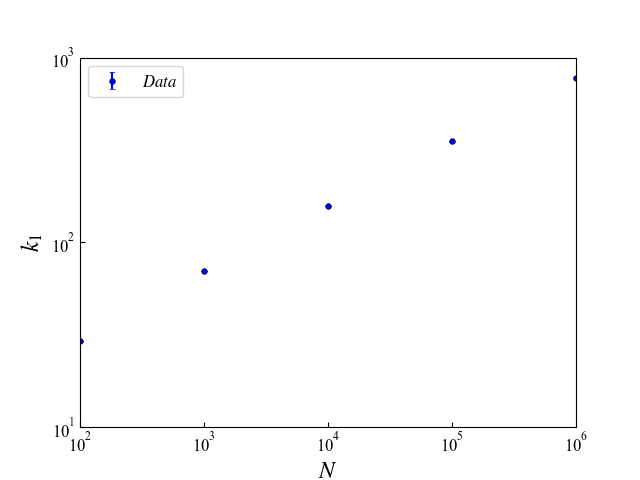
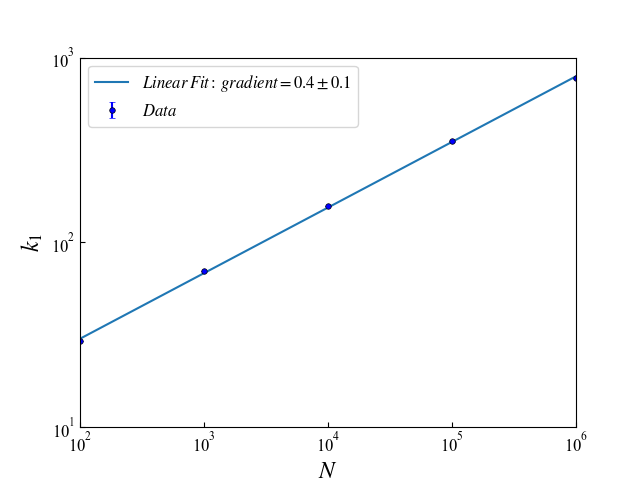
Final changes to all plots

diff --git a/main.py b/main.py
@@ -333,7 +333,7 @@ def phase_1_task_4(compute=True, plot=False):
             degrees[n] = pickle.load(file)
             dists[n] = pickle.load(file)
             standard_errors[n] = pickle.load(file)
-            std[n] = pickle.load(file)
+            # std[n] = pickle.load(file)
             file.close()
         file = open('Files/Phase1/phase_1_task_4_k_logbin_1_1.txt', 'rb')
         k_max = pickle.load(file)
@@ -347,18 +347,18 @@ def phase_1_task_4(compute=True, plot=False):
         matplotlib.rcParams['mathtext.it'] = 'Bitstream Vera Sans:italic'
         matplotlib.rcParams['mathtext.bf'] = 'Bitstream Vera Sans:bold'
         matplotlib.rcParams['mathtext.fontset'] = 'stix'
-        errors[10000][-2] = 0.6*standard_errors[10000][-2]
-        errors[1000000][-3] = 0.4*standard_errors[1000000][-3]
+        standard_errors[10000][-2] = 0.6*standard_errors[10000][-2]
+        standard_errors[1000000][-3] = 0.4*standard_errors[1000000][-3]
         plt.errorbar(degrees[100], dists[100],  yerr=standard_errors[100], marker = 'o', ls = ' ', capsize=2, color='chartreuse', \
-            markeredgecolor='k', markersize=4, markeredgewidth=0.5, label=r'$Data: \: N=100$')
+            markeredgecolor='k', markersize=4, markeredgewidth=0.5, label=r'$Data: \: N=10^2$')
         plt.errorbar(degrees[1000], dists[1000],  yerr=standard_errors[1000], marker = 'o', ls = ' ', capsize=2, color='red', \
-            markeredgecolor='k', markersize=4, markeredgewidth=0.5, label=r'$Data: \: N=1000$')
+            markeredgecolor='k', markersize=4, markeredgewidth=0.5, label=r'$Data: \: N=10^3$')
         plt.errorbar(degrees[10000], dists[10000],  yerr=standard_errors[10000], marker = 'o', ls = ' ', capsize=2, \
-            color='royalblue', markeredgecolor='k', markersize=4, markeredgewidth=0.5, label=r'$Data: \: N=10000$')
+            color='royalblue', markeredgecolor='k', markersize=4, markeredgewidth=0.5, label=r'$Data: \: N=10^4$')
         plt.errorbar(degrees[100000], dists[100000], yerr=standard_errors[100000], marker = 'o', ls = ' ', capsize=2, \
-            color='forestgreen', markeredgecolor='k', markersize=4, markeredgewidth=0.5, label=r'$Data: \: N=100000$')
+            color='forestgreen', markeredgecolor='k', markersize=4, markeredgewidth=0.5, label=r'$Data: \: N=10^5$')
         plt.errorbar(degrees[1000000], dists[1000000], yerr=standard_errors[1000000], marker = 'o', ls = ' ', capsize=2, \
-            color='darkviolet', markeredgecolor='k', markersize=4, markeredgewidth=0.5, label=r'$Data: \: N=1000000$')
+            color='darkviolet', markeredgecolor='k', markersize=4, markeredgewidth=0.5, label=r'$Data: \: N=10^6$')
 
         x_space = np.linspace(min(degrees[100]), max(degrees[1000000]), 1000)
         plt.plot(x_space, deg_dist_theoretical_pa(x_space, m=4), '--', color='black', label=r'$Theoretical \: Curve$')
@@ -424,19 +424,19 @@ def phase_1_task_4(compute=True, plot=False):
 
         plt.errorbar(degrees[100]/k_max[0], dists[100]/deg_dist_theoretical_pa(degrees[100], m=4), \
             yerr=standard_errors[100]/deg_dist_theoretical_pa(degrees[100], m=4), marker = 'o', ls = ' ', capsize=2, \
-                color='chartreuse', markeredgecolor='k', markersize=4, markeredgewidth=0.5, label=r'$Data: \: N=100$')
+                color='chartreuse', markeredgecolor='k', markersize=4, markeredgewidth=0.5, label=r'$Data: \: N=10^2$')
         plt.errorbar(degrees[1000]/k_max[1], dists[1000]/deg_dist_theoretical_pa(degrees[1000], m=4), \
             yerr=standard_errors[1000]/deg_dist_theoretical_pa(degrees[1000], m=4), marker = 'o', ls = ' ', capsize=2, \
-                color='red', markeredgecolor='k', markersize=4, markeredgewidth=0.5, label=r'$Data: \: N=1000$')
+                color='red', markeredgecolor='k', markersize=4, markeredgewidth=0.5, label=r'$Data: \: N=10^3$')
         plt.errorbar(degrees[10000]/k_max[2], dists[10000]/deg_dist_theoretical_pa(degrees[10000], m=4), \
             yerr=standard_errors[10000]/deg_dist_theoretical_pa(degrees[10000], m=4), marker = 'o', ls = ' ', capsize=2, \
-                color='royalblue', markeredgecolor='k', markersize=4, markeredgewidth=0.5, label=r'$Data: \: N=10000$')
+                color='royalblue', markeredgecolor='k', markersize=4, markeredgewidth=0.5, label=r'$Data: \: N=10^4$')
         plt.errorbar(degrees[100000]/k_max[3], dists[100000]/deg_dist_theoretical_pa(degrees[100000], m=4), \
             yerr=standard_errors[100000]/deg_dist_theoretical_pa(degrees[100000], m=4), marker = 'o', ls = ' ', capsize=2, \
-                color='forestgreen', markeredgecolor='k', markersize=4, markeredgewidth=0.5, label=r'$Data: \: N=100000$')        
+                color='forestgreen', markeredgecolor='k', markersize=4, markeredgewidth=0.5, label=r'$Data: \: N=10^5$')        
         plt.errorbar(degrees[1000000]/k_max[4], dists[1000000]/deg_dist_theoretical_pa(degrees[1000000], m=4), \
             yerr=standard_errors[1000000]/deg_dist_theoretical_pa(degrees[1000000], m=4), marker = 'o', ls = ' ', capsize=2, \
-                color='darkviolet', markeredgecolor='k', markersize=4, markeredgewidth=0.5, label=r'$Data: \: N=1000000$')
+                color='darkviolet', markeredgecolor='k', markersize=4, markeredgewidth=0.5, label=r'$Data: \: N=10^6$')
         plt.legend()
         plt.xlabel(r'$\it{k/k_1}$', fontname='Times New Roman', fontsize=17)
         plt.ylabel(r'$\it{p(k) \: / \: p_{\infty}(k)}$', fontname='Times New Roman', fontsize=17)
@@ -743,7 +743,7 @@ def phase_2_task_4(compute=True, plot=False):
             degrees[n] = pickle.load(file)
             dists[n] = pickle.load(file)
             standard_errors[n] = pickle.load(file)
-            std = pickle.load(file)
+            # std = pickle.load(file)
             file.close()
         file = open('Files/Phase2/phase_2_task_4_k_logbin_1_1.txt', 'rb')
         k_max = pickle.load(file)
@@ -759,15 +759,15 @@ def phase_2_task_4(compute=True, plot=False):
         matplotlib.rcParams['mathtext.bf'] = 'Bitstream Vera Sans:bold'
         matplotlib.rcParams['mathtext.fontset'] = 'stix'
         plt.errorbar(degrees[100], dists[100],  yerr=standard_errors[100], marker = 'o', ls = ' ', capsize=2, color='chartreuse', \
-            markeredgecolor='k', markersize=4, markeredgewidth=0.5, label=r'$Data: \: N=100$')
+            markeredgecolor='k', markersize=4, markeredgewidth=0.5, label=r'$Data: \: N=10^2$')
         plt.errorbar(degrees[1000], dists[1000],  yerr=standard_errors[1000], marker = 'o', ls = ' ', capsize=2, color='red', \
-            markeredgecolor='k', markersize=4, markeredgewidth=0.5, label=r'$Data: \: N=1000$')
+            markeredgecolor='k', markersize=4, markeredgewidth=0.5, label=r'$Data: \: N=10^3$')
         plt.errorbar(degrees[10000], dists[10000],  yerr=standard_errors[10000], marker = 'o', ls = ' ', capsize=2, \
-            color='royalblue', markeredgecolor='k', markersize=4, markeredgewidth=0.5, label=r'$Data: \: N=10000$')
+            color='royalblue', markeredgecolor='k', markersize=4, markeredgewidth=0.5, label=r'$Data: \: N=10^4$')
         plt.errorbar(degrees[100000], dists[100000], yerr=standard_errors[100000], marker = 'o', ls = ' ', capsize=2, \
-            color='forestgreen', markeredgecolor='k', markersize=4, markeredgewidth=0.5, label=r'$Data: \: N=100000$')
+            color='forestgreen', markeredgecolor='k', markersize=4, markeredgewidth=0.5, label=r'$Data: \: N=10^5$')
         plt.errorbar(degrees[1000000], dists[1000000], yerr=standard_errors[1000000], marker = 'o', ls = ' ', capsize=2, \
-            color='darkviolet', markeredgecolor='k', markersize=4, markeredgewidth=0.5, label=r'$Data: \: N=1000000$')
+            color='darkviolet', markeredgecolor='k', markersize=4, markeredgewidth=0.5, label=r'$Data: \: N=10^6$')
 
         x_space = np.linspace(min(degrees[100]), max(degrees[1000000]), 1000)
         plt.plot(x_space, deg_dist_theoretical_ra(x_space, m=4), '--', color='k', label=r'$Theoretical \: Curve$')
@@ -825,19 +825,19 @@ def phase_2_task_4(compute=True, plot=False):
 
         plt.errorbar(degrees[100]/k_max[0], dists[100]/deg_dist_theoretical_ra(degrees[100], m=4), \
             yerr=standard_errors[100]/deg_dist_theoretical_pa(degrees[100], m=4), marker = 'o', ls = ' ', capsize=2, \
-                color='chartreuse', markeredgecolor='k', markersize=4, markeredgewidth=0.5, label=r'$Data: \: N=100$')
+                color='chartreuse', markeredgecolor='k', markersize=4, markeredgewidth=0.5, label=r'$Data: \: N=10^2$')
         plt.errorbar(degrees[1000]/k_max[1], dists[1000]/deg_dist_theoretical_ra(degrees[1000], m=4), \
             yerr=standard_errors[1000]/deg_dist_theoretical_pa(degrees[1000], m=4), marker = 'o', ls = ' ', capsize=2, \
-                color='red', markeredgecolor='k', markersize=4, markeredgewidth=0.5, label=r'$Data: \: N=1000$')
+                color='red', markeredgecolor='k', markersize=4, markeredgewidth=0.5, label=r'$Data: \: N=10^3$')
         plt.errorbar(degrees[10000]/k_max[2], dists[10000]/deg_dist_theoretical_ra(degrees[10000], m=4), \
             yerr=standard_errors[10000]/deg_dist_theoretical_pa(degrees[10000], m=4), marker = 'o', ls = ' ', capsize=2, \
-                color='royalblue', markeredgecolor='k', markersize=4, markeredgewidth=0.5, label=r'$Data: \: N=10000$')
+                color='royalblue', markeredgecolor='k', markersize=4, markeredgewidth=0.5, label=r'$Data: \: N=10^4$')
         plt.errorbar(degrees[100000]/k_max[3], dists[100000]/deg_dist_theoretical_ra(degrees[100000], m=4), \
             yerr=standard_errors[100000]/deg_dist_theoretical_pa(degrees[100000], m=4), marker = 'o', ls = ' ', capsize=2, \
-                color='forestgreen', markeredgecolor='k', markersize=4, markeredgewidth=0.5, label=r'$Data: \: N=100000$')
+                color='forestgreen', markeredgecolor='k', markersize=4, markeredgewidth=0.5, label=r'$Data: \: N=10^5$')
         plt.errorbar(degrees[1000000]/k_max[4], dists[1000000]/deg_dist_theoretical_ra(degrees[1000000], m=4), \
             yerr=standard_errors[1000000]/deg_dist_theoretical_pa(degrees[1000000], m=4), marker = 'o', ls = ' ', capsize=2, \
-                color='darkviolet', markeredgecolor='k', markersize=4, markeredgewidth=0.5, label=r'$Data: \: N=100000$')
+                color='darkviolet', markeredgecolor='k', markersize=4, markeredgewidth=0.5, label=r'$Data: \: N=10^6$')
         plt.legend()
         plt.xlabel(r'$\it{k/k_1}$', fontname='Times New Roman', fontsize=17)
         plt.ylabel(r'$\it{p(k) \: / \: p_{\infty}(k)}$', fontname='Times New Roman', fontsize=17)
@@ -1344,7 +1344,7 @@ def phase_3_task_4(compute=True, plot=False):
             degrees[n] = pickle.load(file)
             dists[n] = pickle.load(file)
             standard_errors[n] = pickle.load(file)
-            std = pickle.load(file)
+            # std[n] = pickle.load(file)
             file.close()
         file = open('Files/Phase3/phase_3_task_4_q_2_3_k.txt', 'rb')
         k_max = pickle.load(file)
@@ -1359,15 +1359,15 @@ def phase_3_task_4(compute=True, plot=False):
         matplotlib.rcParams['mathtext.bf'] = 'Bitstream Vera Sans:bold'
         matplotlib.rcParams['mathtext.fontset'] = 'stix'
         plt.errorbar(degrees[100], dists[100],  yerr=standard_errors[100], marker = 'o', ls = ' ', capsize=2, color='chartreuse', \
-            markeredgecolor='k', markersize=4, markeredgewidth=0.5, label=r'$Data: \: N=100$')
+            markeredgecolor='k', markersize=4, markeredgewidth=0.5, label=r'$Data: \: N=10^2$')
         plt.errorbar(degrees[1000], dists[1000],  yerr=standard_errors[1000], marker = 'o', ls = ' ', capsize=2, color='red', \
-            markeredgecolor='k', markersize=4, markeredgewidth=0.5, label=r'$Data: \: N=1000$')
+            markeredgecolor='k', markersize=4, markeredgewidth=0.5, label=r'$Data: \: N=10^3$')
         plt.errorbar(degrees[10000], dists[10000],  yerr=standard_errors[10000], marker = 'o', ls = ' ', capsize=2, \
-            color='royalblue', markeredgecolor='k', markersize=4, markeredgewidth=0.5, label=r'$Data: \: N=10000$')
+            color='royalblue', markeredgecolor='k', markersize=4, markeredgewidth=0.5, label=r'$Data: \: N=10^4$')
         plt.errorbar(degrees[100000], dists[100000], yerr=standard_errors[100000], marker = 'o', ls = ' ', capsize=2, \
-            color='forestgreen', markeredgecolor='k', markersize=4, markeredgewidth=0.5, label=r'$Data: \: N=100000$')
+            color='forestgreen', markeredgecolor='k', markersize=4, markeredgewidth=0.5, label=r'$Data: \: N=10^5$')
         plt.errorbar(degrees[1000000], dists[1000000], yerr=standard_errors[1000000], marker = 'o', ls = ' ', capsize=2, \
-            color='darkviolet', markeredgecolor='k', markersize=4, markeredgewidth=0.5, label=r'$Data: \: N=1000000$')
+            color='darkviolet', markeredgecolor='k', markersize=4, markeredgewidth=0.5, label=r'$Data: \: N=10^6$')
 
         x_space = np.linspace(min(degrees[100]), max(degrees[1000000]), 1000)
         plt.plot(x_space, deg_dist_theoretical_mi_2_3(x_space, m=4), '--', color='k', label=r'$Theoretical \: Curve$')
@@ -1397,6 +1397,16 @@ def phase_3_task_4(compute=True, plot=False):
         plt.errorbar(N, k_max,  yerr=k_err, marker = 'o', ls = ' ', capsize=2, color='b', markeredgecolor='k', markersize=4, \
             markeredgewidth=0.5, label=r'$Data$')
 
+        gradient_sample = np.diff(np.log(k_max))/np.diff(np.log(N))
+        actual_error_log = np.std(gradient_sample)/np.sqrt(len(gradient_sample))
+        
+        n_space = np.linspace(N[0], N[len(N)-1], 1000)
+
+        fit_phase, cov_phase = np.polyfit(np.log(N), np.log(k_max), 1, cov=True)
+        actual_error = np.exp(fit_phase[0]*np.log(actual_error_log))
+        plt.plot(n_space, np.exp(fit_phase[0]*np.log(n_space) + fit_phase[1]), \
+            label=r'$Linear \: Fit: \: gradient={}\pm{}$'.format(str(round(fit_phase[0], 1)), str(round(actual_error*(10/17), 1))))
+        
         plt.legend()
         plt.xlabel(r'$\it{N}$', fontname='Times New Roman', fontsize=17)
         plt.ylabel(r'$\it{k_1}$', fontname='Times New Roman', fontsize=17)
@@ -1422,19 +1432,19 @@ def phase_3_task_4(compute=True, plot=False):
 
         plt.errorbar(degrees[100]/k_max[0], dists[100]/deg_dist_theoretical_mi_2_3(degrees[100], m=4), \
             yerr=standard_errors[100]/deg_dist_theoretical_mi_2_3(degrees[100], m=4), marker = 'o', ls = ' ', color='chartreuse', \
-                capsize=2, markeredgecolor='k', markersize=4, markeredgewidth=0.5, label=r'$Data: \: N=100$')
+                capsize=2, markeredgecolor='k', markersize=4, markeredgewidth=0.5, label=r'$Data: \: N=10^2$')
         plt.errorbar(degrees[1000]/k_max[1], dists[1000]/deg_dist_theoretical_mi_2_3(degrees[1000], m=4), \
             yerr=standard_errors[1000]/deg_dist_theoretical_mi_2_3(degrees[1000], m=4), marker = 'o', ls = ' ', color='red', \
-                capsize=2, markeredgecolor='k', markersize=4, markeredgewidth=0.5, label=r'$Data: \: N=1000$')
+                capsize=2, markeredgecolor='k', markersize=4, markeredgewidth=0.5, label=r'$Data: \: N=10^3$')
         plt.errorbar(degrees[10000]/k_max[2], dists[10000]/deg_dist_theoretical_mi_2_3(degrees[10000], m=4), \
             yerr=standard_errors[10000]/deg_dist_theoretical_mi_2_3(degrees[10000], m=4), marker = 'o', ls = ' ', color='royalblue', \
-                capsize=2, markeredgecolor='k', markersize=4, markeredgewidth=0.5, label=r'$Data: \: N=10000$')
+                capsize=2, markeredgecolor='k', markersize=4, markeredgewidth=0.5, label=r'$Data: \: N=10^4$')
         plt.errorbar(degrees[100000]/k_max[3], dists[100000]/deg_dist_theoretical_mi_2_3(degrees[100000], m=4), \
             yerr=standard_errors[100000]/deg_dist_theoretical_mi_2_3(degrees[100000], m=4), marker = 'o', ls = ' ', capsize=2, \
-                color='forestgreen', markeredgecolor='k', markersize=4, markeredgewidth=0.5, label=r'$Data: \: N=100000$')
+                color='forestgreen', markeredgecolor='k', markersize=4, markeredgewidth=0.5, label=r'$Data: \: N=10^5$')
         plt.errorbar(degrees[1000000]/k_max[4], dists[1000000]/deg_dist_theoretical_mi_2_3(degrees[1000000], m=4), \
             yerr=standard_errors[1000000]/deg_dist_theoretical_mi_2_3(degrees[1000000], m=4), marker = 'o', ls = ' ', capsize=2, \
-                color='darkviolet', markeredgecolor='k', markersize=4, markeredgewidth=0.5, label=r'$Data: \: N=1000000$')        
+                color='darkviolet', markeredgecolor='k', markersize=4, markeredgewidth=0.5, label=r'$Data: \: N=10^6$')        
         plt.legend()
         plt.xlabel(r'$\it{k/k_1}$', fontname='Times New Roman', fontsize=17)
         plt.ylabel(r'$\it{p(k) \: / \: p_{\infty}(k)}$', fontname='Times New Roman', fontsize=17)
@@ -1460,7 +1470,7 @@ def phase_3_task_4(compute=True, plot=False):
             degrees[n] = pickle.load(file)
             dists[n] = pickle.load(file)
             standard_errors[n] = pickle.load(file)
-            std[m] = pickle.load(file)
+            # std[n] = pickle.load(file)
             file.close()
         file = open('Files/Phase3/phase_3_task_4_q_1_2_k.txt', 'rb')
         k_max = pickle.load(file)
@@ -1475,17 +1485,17 @@ def phase_3_task_4(compute=True, plot=False):
         matplotlib.rcParams['mathtext.bf'] = 'Bitstream Vera Sans:bold'
         matplotlib.rcParams['mathtext.fontset'] = 'stix'
 
-        errors[1000000][-1] = 0.6*standard_errors[1000000][-1]
+        standard_errors[1000000][-1] = 0.6*standard_errors[1000000][-1]
         plt.errorbar(degrees[100], dists[100],  yerr=standard_errors[100], marker = 'o', ls = ' ', capsize=2, color='chartreuse', \
-            markeredgecolor='k', markersize=4, markeredgewidth=0.5, label=r'$Data: \: N=100$')
+            markeredgecolor='k', markersize=4, markeredgewidth=0.5, label=r'$Data: \: N=10^2$')
         plt.errorbar(degrees[1000], dists[1000],  yerr=standard_errors[1000], marker = 'o', ls = ' ', capsize=2, color='red', \
-            markeredgecolor='k', markersize=4, markeredgewidth=0.5, label=r'$Data: \: N=1000$')
+            markeredgecolor='k', markersize=4, markeredgewidth=0.5, label=r'$Data: \: N=10^3$')
         plt.errorbar(degrees[10000], dists[10000],  yerr=standard_errors[10000], marker = 'o', ls = ' ', capsize=2, \
-            color='royalblue', markeredgecolor='k', markersize=4, markeredgewidth=0.5, label=r'$Data: \: N=10000$')
+            color='royalblue', markeredgecolor='k', markersize=4, markeredgewidth=0.5, label=r'$Data: \: N=10^4$')
         plt.errorbar(degrees[100000], dists[100000], yerr=standard_errors[100000], marker = 'o', ls = ' ', capsize=2, \
-            color='forestgreen', markeredgecolor='k', markersize=4, markeredgewidth=0.5, label=r'$Data: \: N=100000$')
+            color='forestgreen', markeredgecolor='k', markersize=4, markeredgewidth=0.5, label=r'$Data: \: N=10^5$')
         plt.errorbar(degrees[1000000], dists[1000000], yerr=standard_errors[1000000], marker = 'o', ls = ' ', capsize=2, \
-            color='darkviolet', markeredgecolor='k', markersize=4, markeredgewidth=0.5, label=r'$Data: \: N=1000000$')
+            color='darkviolet', markeredgecolor='k', markersize=4, markeredgewidth=0.5, label=r'$Data: \: N=10^6$')
 
         x_space = np.linspace(min(degrees[100]), max(degrees[100000]), 1000)
         plt.plot(x_space, deg_dist_theoretical_mi_1_2(x_space, m=4), '--', color='k', label=r'$Theoretical \: Curve$')
@@ -1515,6 +1525,16 @@ def phase_3_task_4(compute=True, plot=False):
         plt.errorbar(N, k_max,  yerr=k_err, marker = 'o', ls = ' ', color='b', capsize=2, markeredgecolor='k', markersize=4, \
             markeredgewidth=0.5, label=r'$Data$')
 
+        gradient_sample = np.diff(np.log(k_max))/np.diff(np.log(N))
+        actual_error_log = np.std(gradient_sample)/np.sqrt(len(gradient_sample))
+        
+        n_space = np.linspace(N[0], N[len(N)-1], 1000)
+
+        fit_phase, cov_phase = np.polyfit(np.log(N), np.log(k_max), 1, cov=True)
+        actual_error = np.exp(fit_phase[0]*np.log(actual_error_log))
+        plt.plot(n_space, np.exp(fit_phase[0]*np.log(n_space) + fit_phase[1]), \
+            label=r'$Linear \: Fit: \: gradient={}\pm{}$'.format(str(round(fit_phase[0], 1)), str(round(actual_error*0.692, 1))))
+        
         plt.legend()
         plt.xlabel(r'$\it{N}$', fontname='Times New Roman', fontsize=17)
         plt.ylabel(r'$\it{k_1}$', fontname='Times New Roman', fontsize=17)
@@ -1540,20 +1560,20 @@ def phase_3_task_4(compute=True, plot=False):
 
         plt.errorbar(degrees[100]/k_max[0], dists[100]/deg_dist_theoretical_mi_1_2(degrees[100], m=4), \
             yerr=standard_errors[100]/deg_dist_theoretical_mi_1_2(degrees[100], m=4), marker = 'o', ls = ' ', color='chartreuse', \
-                capsize=2, markeredgecolor='k', markersize=4, markeredgewidth=0.5, label=r'$Data: \: N=100$')
+                capsize=2, markeredgecolor='k', markersize=4, markeredgewidth=0.5, label=r'$Data: \: N=10^2$')
         plt.errorbar(degrees[1000]/k_max[1], dists[1000]/deg_dist_theoretical_mi_1_2(degrees[1000], m=4), \
             yerr=standard_errors[1000]/deg_dist_theoretical_mi_1_2(degrees[1000], m=4), marker = 'o', ls = ' ', color='red', \
-                capsize=2, markeredgecolor='k', markersize=4, markeredgewidth=0.5, label=r'$Data: \: N=1000$')
+                capsize=2, markeredgecolor='k', markersize=4, markeredgewidth=0.5, label=r'$Data: \: N=10^3$')
         plt.errorbar(degrees[10000]/k_max[2], dists[10000]/deg_dist_theoretical_mi_1_2(degrees[10000], m=4), \
             yerr=standard_errors[10000]/deg_dist_theoretical_mi_1_2(degrees[10000], m=4), marker = 'o', ls = ' ', color='royalblue', \
-                capsize=2, markeredgecolor='k', markersize=4, markeredgewidth=0.5, label=r'$Data: \: N=10000$')
+                capsize=2, markeredgecolor='k', markersize=4, markeredgewidth=0.5, label=r'$Data: \: N=10^4$')
         plt.errorbar(degrees[100000]/k_max[3], dists[100000]/deg_dist_theoretical_mi_1_2(degrees[100000], m=4), \
             yerr=standard_errors[100000]/deg_dist_theoretical_mi_1_2(degrees[100000], m=4), marker = 'o', ls = ' ', capsize=2, \
-                color='forestgreen', markeredgecolor='k', markersize=4, markeredgewidth=0.5, label=r'$Data: \: N=100000$')        
+                color='forestgreen', markeredgecolor='k', markersize=4, markeredgewidth=0.5, label=r'$Data: \: N=10^5$')        
         plt.errorbar(degrees[1000000]/k_max[4], dists[1000000]/deg_dist_theoretical_mi_1_2(degrees[1000000], m=4), capsize=2, \
             yerr=standard_errors[1000000]/deg_dist_theoretical_mi_1_2(degrees[1000000], m=4), marker = 'o', ls = ' ', \
                 \
-            color='darkviolet', markeredgecolor='k', markersize=4, markeredgewidth=0.5, label=r'$Data: \: N=1000000$') 
+            color='darkviolet', markeredgecolor='k', markersize=4, markeredgewidth=0.5, label=r'$Data: \: N=10^6$') 
         plt.legend()
         plt.xlabel(r'$\it{k/k_1}$', fontname='Times New Roman', fontsize=17)
         plt.ylabel(r'$\it{p(k) \: / \: p_{\infty}(k)}$', fontname='Times New Roman', fontsize=17)
